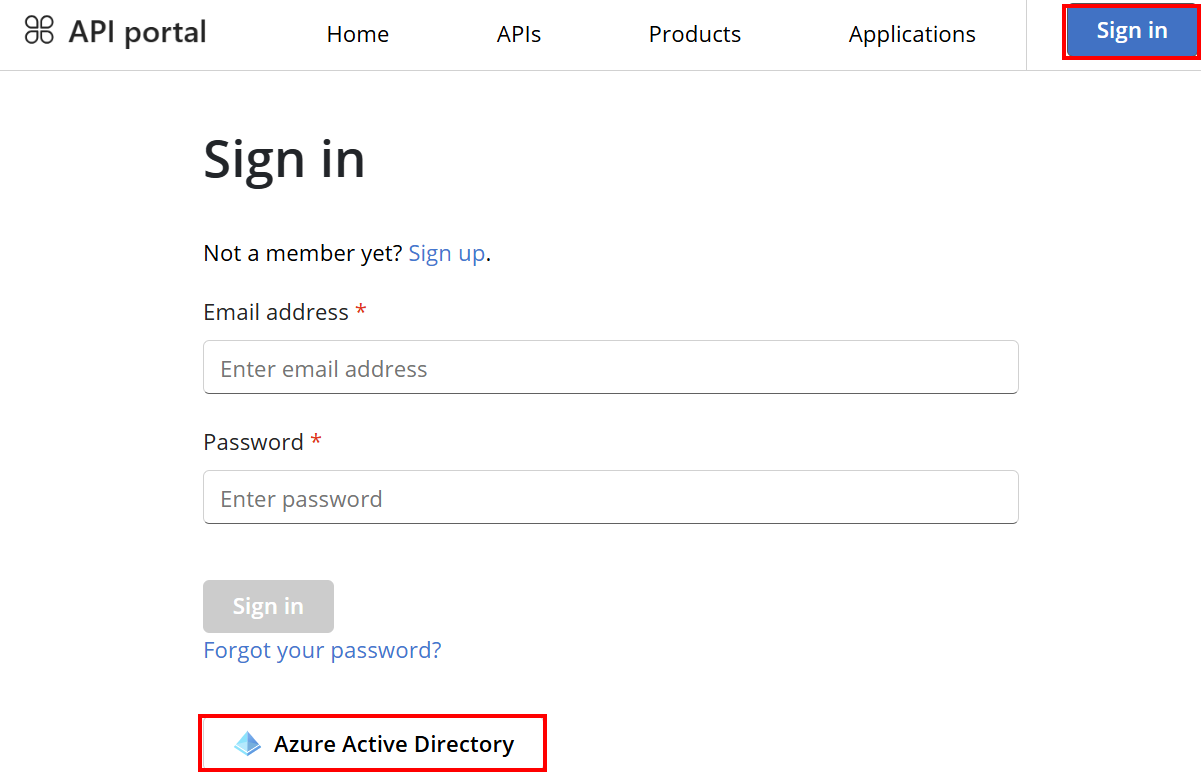
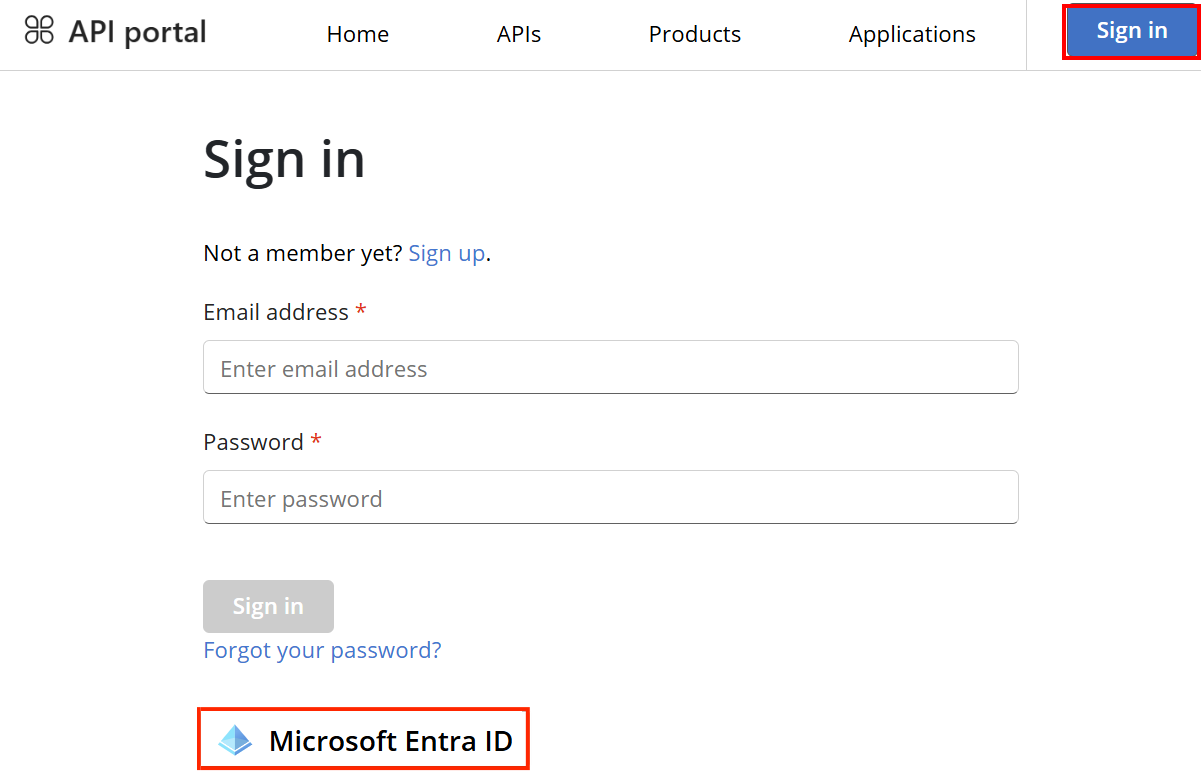
edits

Changed region(s): [[0.154, 0.9004, 0.4621, 1.0]]

diff --git a/articles/api-management/api-management-howto-aad.md b/articles/api-management/api-management-howto-aad.md
@@ -90,6 +90,7 @@ Update the identity provider configuration to add another tenant:
 1. Under **Developer portal**, select **Identities**.
 1. Select **Microsoft Entra ID** from the list.
 1. In the **Tenant ID** field, add the extra tenant IDs separated by commas.
+1. Update the value of **Signin tenant** to one of the configured tenants. 
 1. Select **Update**.
 1. [Republish your developer portal](developer-portal-overview.md#publish-the-portal).
 
@@ -143,13 +144,13 @@ A user can then sign in with Microsoft Entra ID as follows:
 
 1. Go to the developer portal. Select **Sign in**.
 
-1. On the **Sign in** page, select **Azure Active Directory**. Selecting this button opens the Microsoft Entra ID sign-in page.
+1. On the **Sign in** page, select **Microsoft Entra ID**. Selecting this button opens the Microsoft Entra ID sign-in page.
 
 
     :::image type="content" source="media/api-management-howto-aad/developer-portal-azure-ad-signin.png" alt-text="Screenshot showing OAuth widget in developer portal.":::
 
     > [!TIP]
-    > If more than one tenant is configured for access, more than one Azure Active Directory button appears on the sign-in page. Each button is labeled with the tenant name.
+    > If more than one tenant is configured for access, more than one Microsoft Entra ID button appears on the sign-in page. Each button is labeled with the tenant name.
 
 1. In the sign-in window for your Microsoft Entra tenant, respond to the prompts. After sign-in is complete, the user is redirected back to the developer portal. 
 

diff --git a/articles/api-management/api-management-howto-entra-external-id.md b/articles/api-management/api-management-howto-entra-external-id.md
@@ -60,12 +60,12 @@ A user can then sign in with Microsoft Entra External ID as follows:
 
 1. Go to the developer portal. Select **Sign in**.
 
-1. On the **Sign in** page, select **Azure Active Directory**.
+1. On the **Sign in** page, select **Microsoft Entra ID**.
 
-    :::image type="content" source="media/api-management-howto-external-id/developer-portal-sign-in.png" alt-text="Screenshot of selecting Azure Active Directory on Sign in page in developer portal.":::
+    :::image type="content" source="media/api-management-howto-external-id/developer-portal-sign-in.png" alt-text="Screenshot of selecting Microsoft Entra ID on Sign in page in developer portal.":::
 
     > [!TIP]
-    > If you configure more than one Microsoft Entra tenant for access, more than one Azure Active Directory button appears on the sign-in page. Each button is labeled with the tenant name.
+    > If you configure more than one Microsoft Entra tenant for access, more than one Microsoft Entra ID button appears on the sign-in page. Each button is labeled with the tenant name.
 
 1. In the sign-in window for your Microsoft Entra tenant, select **Sign-in options**. Select the external identity provider configured in your Microsoft Entra tenant to sign in. For example, if you configured Google as an identity provider, select **Sign in with Google**.
 
